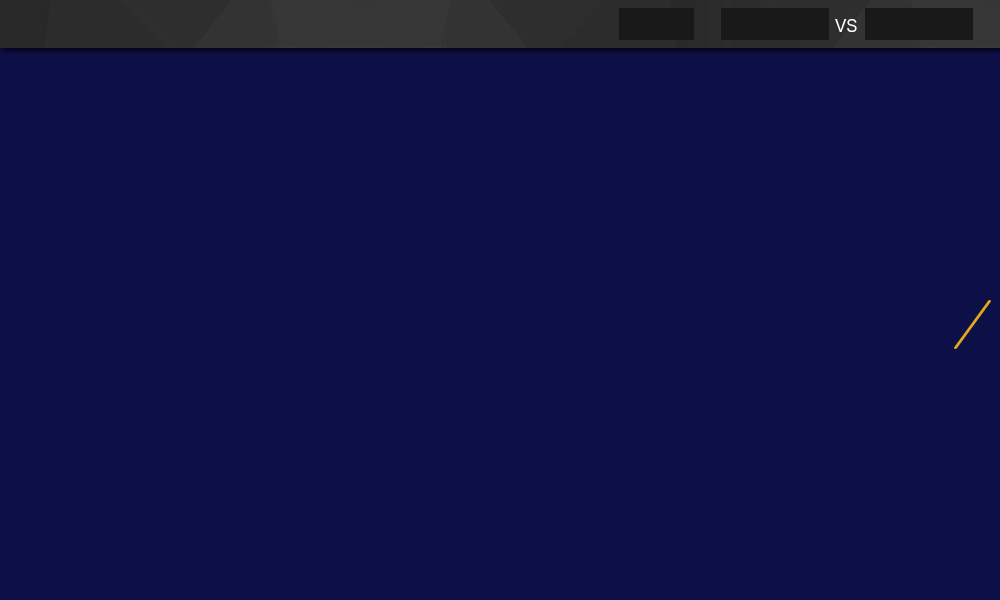
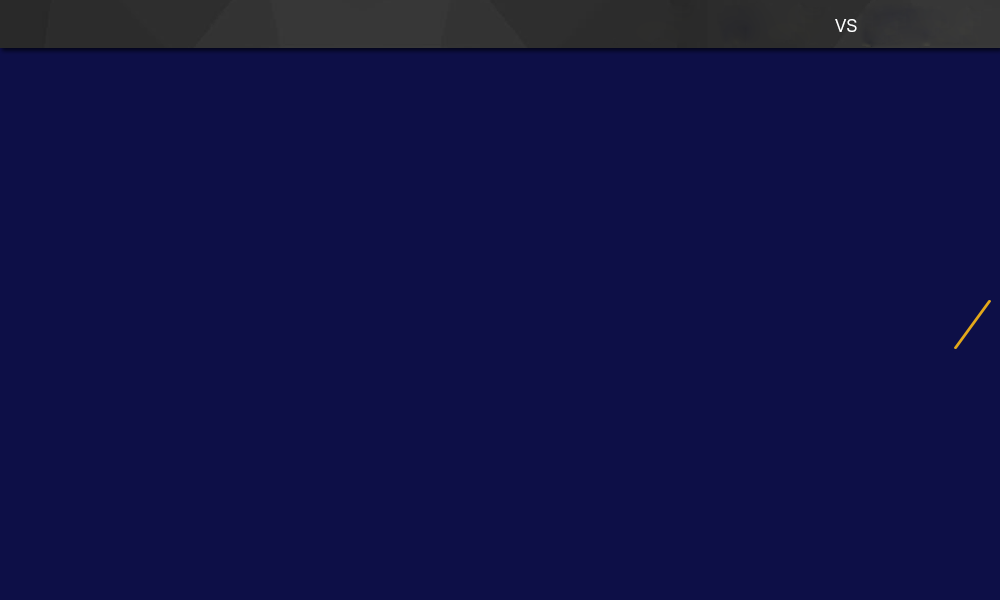
改好了比赛数据界面日期选择器的监听

Changed region(s): [[0.868, 0.0, 0.992, 0.09]]

diff --git a/Nbalabala/src/ui/panel/gamedata/GameDataPanel.java b/Nbalabala/src/ui/panel/gamedata/GameDataPanel.java
@@ -8,13 +8,13 @@ import java.awt.event.ActionListener;
 import java.awt.event.MouseAdapter;
 import java.awt.event.MouseEvent;
 import java.util.ArrayList;
+import java.util.Date;
 
 import ui.common.button.ImgButton;
 import ui.common.comboBox.MyComboBox;
 import ui.common.date.DateChooser;
 import ui.common.label.MyLabel;
 import ui.common.panel.BottomPanel;
-import ui.common.table.MatchInfoTable;
 import ui.controller.MainController;
 import utility.Constants;
 import vo.MatchDetailVO;
@@ -47,6 +47,7 @@ public class GameDataPanel extends BottomPanel {
 	private ArrayList<MatchDetailVO> matchDetailfile;
 	private int gameNum, pageNum;
 	private Boolean isInit = true;
+
 	/**
 	 * @param url
 	 *            背景图片的url
@@ -77,31 +78,31 @@ public class GameDataPanel extends BottomPanel {
 		gameNum = matchDetailfile.size();
 		pageNum = (int) Math.ceil((double) gameNum / 3);
 		proPanel = new ProfilePanel[gameNum];
-		if(gameNum % 3 == 1){
+		if (gameNum % 3 == 1) {
 			proPanel = new ProfilePanel[gameNum + 2];
-		}else if(gameNum % 3 == 2){
+		} else if (gameNum % 3 == 2) {
 			proPanel = new ProfilePanel[gameNum + 1];
-		}else if(gameNum == 0){
+		} else if (gameNum == 0) {
 			proPanel = new ProfilePanel[3];
 		}
-		for(int j = 0; j < proPanel.length; j++) {
+		for (int j = 0; j < proPanel.length; j++) {
 			proPanel[j] = new ProfilePanel();
 		}
-		int i = 0; 
-		if(gameNum >= 3){
+		int i = 0;
+		if (gameNum >= 3) {
 			for (i = 0; i < 3; i++) {
 				proPanel[i] = (new ProfilePanel(matchDetailfile.get(i), GameDataPanel.this));
 			}
-		}else if(gameNum == 0){
-			 proPanel[0] = new ProfilePanel();
-			 proPanel[1] = new ProfilePanel();
-			 proPanel[2] = new ProfilePanel();
-		 }
+		} else if (gameNum == 0) {
+			proPanel[0] = new ProfilePanel();
+			proPanel[1] = new ProfilePanel();
+			proPanel[2] = new ProfilePanel();
+		}
 		for (i = 0; i < 3; i++) {
 			proPanel[i].setLocation(20, 70 + i * 180);
 			this.add(proPanel[i]);
 		}
- 	}
+	}
 
 	/**
 	 * 添加一些label
@@ -157,7 +158,7 @@ public class GameDataPanel extends BottomPanel {
 			public void mousePressed(MouseEvent e) {
 				int temp = clickNum;
 				int i = 0;
-				for (i = 3 * clickNum ; i < 3 * clickNum + 3  && i < gameNum; i++) {
+				for (i = 3 * clickNum; i < 3 * clickNum + 3 && i < gameNum; i++) {
 					if (proPanel[i].isIni == true) {
 						proPanel[i] = (new ProfilePanel(matchDetailfile.get(i), GameDataPanel.this));
 					}
@@ -166,7 +167,7 @@ public class GameDataPanel extends BottomPanel {
 				if (clickNum == pageNum + 1) {
 					clickNum = 1;
 				}
-				addPanel(temp , clickNum);
+				addPanel(temp, clickNum);
 				number1.setText(clickNum + "");
 				GameDataPanel.this.repaint();
 
@@ -201,33 +202,10 @@ public class GameDataPanel extends BottomPanel {
 	 * @author lsy
 	 * @version 2015年3月21日 下午4:29:48
 	 */
-	int clickTime = 0;
-
-//	public void addConfirmBtn() {
-//		
-//		confirmBtn2.addMouseListener(new MouseAdapter() {
-//
-//			public void mousePressed(MouseEvent e) {
-//				if (clickTime != 0) {
-//					GameDataPanel.this.remove(scrollPane);
-//				}
-//				clickTime++;
-////				Date date = dateChooser.getDate();
-////				 matchProfile = matchQuery.screenMatchByDate(date);
-//				remove(scrollPane);
-//				// scrollPane = new
-//				// MatchInfoTableFactory(matchProfile,GameDataPanel.this)
-//				// .getTableScrollPanel();
-//				// GameDataPanel.this.add(scrollPane);
-//			}
-//		});
-//	}
 
 	public void paint(Graphics g) {
 		super.paint(g);
 	}
-
-	protected MatchInfoTable table;
 
 	/**
 	 * 分析打了几节
@@ -241,10 +219,19 @@ public class GameDataPanel extends BottomPanel {
 		String[] eachSection = gameInfo.split(";");
 		return eachSection.length;
 	}
-	
+
 	public void refresh() {
-		System.out.println(dateChooser.getDate());
-		//TODO 这里写上相应代码
+		Date date = dateChooser.getDate();
+		matchDetailfile = matchQuery.screenMatchByDate(date);
+		isInit = false;
+		addArray();
+		if (pageNum == 0) {
+			number2.setlbText("1");
+		} else {
+			number2.setlbText(pageNum + "");
+		}
+		number1.setlbText("1");
+		GameDataPanel.this.repaint();
 	}
 
 	/**
@@ -256,16 +243,10 @@ public class GameDataPanel extends BottomPanel {
 	public void addDateChooser() {
 		dateChooser = new DateChooser(this);
 		MainController.addDateChooserPanel(this, dateChooser, 565, 10, 153, 30);
-		dateChooser.addMouseListener(new MouseAdapter(){
-			 public void mousePressed(MouseEvent e) {
-				
-			 }
-		});
-//		matchDetailfile = matchQuery.screenMatchByDate(date);
 	}
-	
-	public void getDate(){
-		
+
+	public void getDate() {
+
 	}
 
 	/**
@@ -296,17 +277,21 @@ public class GameDataPanel extends BottomPanel {
 			if (team1 != 0) {
 				teamAbbr_1 = Constants.TEAM_ABBR[team1 - 1];
 			}
-			if(team2 != 0){
-			teamAbbr_2 = Constants.TEAM_ABBR[team2 - 1];
+			if (team2 != 0) {
+				teamAbbr_2 = Constants.TEAM_ABBR[team2 - 1];
 			}
 			matchDetailfile = matchQuery.screenMatchByTeam(teamAbbr_1, teamAbbr_2);
 			isInit = false;
 			addArray();
-			number2.setlbText(pageNum + "");
+			if (pageNum == 0) {
+				number2.setlbText("1");
+			} else {
+				number2.setlbText(pageNum + "");
+			}
 			number1.setlbText("1");
 			GameDataPanel.this.repaint();
 		}
 
 	}
-	
+
 }
